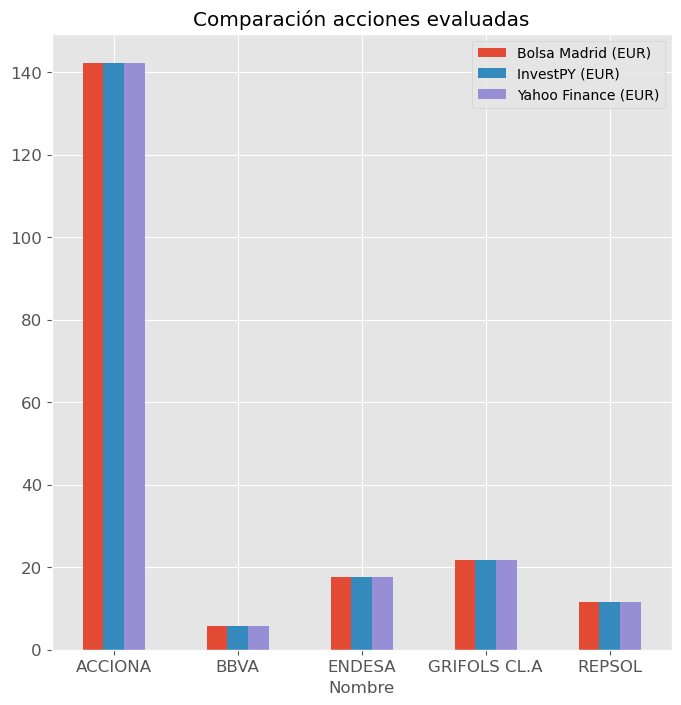
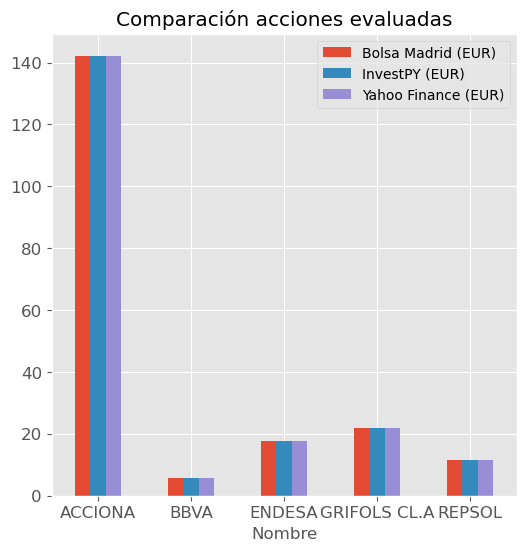
commit 46

diff --git a/TP2 Webscraping&api/graficos.py b/TP2 Webscraping&api/graficos.py
@@ -18,7 +18,7 @@ def graficarMaxMin(df,x,max,min,titulo,nombre):
 
 def graficarComparacion(df,x,titulo,nombre):
     plt.style.use('ggplot')
-    df.set_index(x).plot.bar(rot=0, title=titulo, figsize=(8,8), fontsize=12)
+    df.set_index(x).plot.bar(rot=0, title=titulo, figsize=(6,6), fontsize=12)
     plt.savefig(nombre, bbox_inches='tight')
     plt.tight_layout();plt.show()
  
